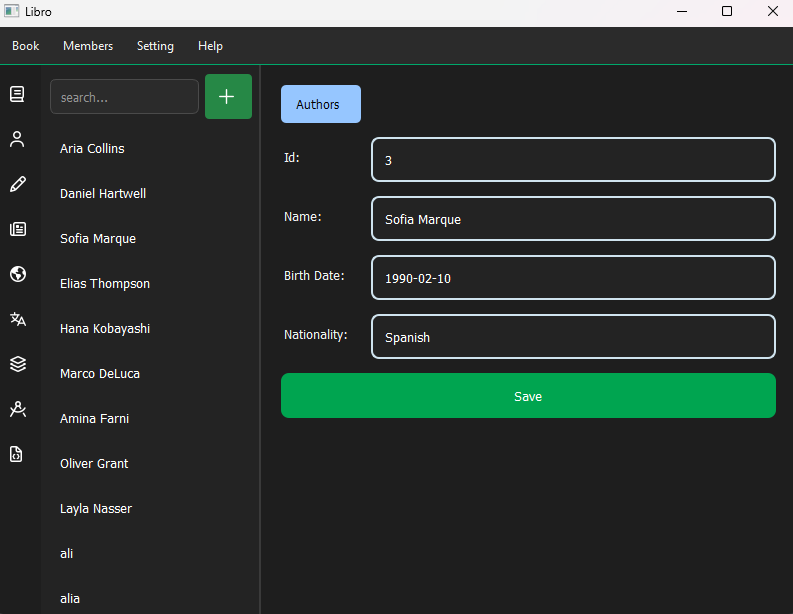
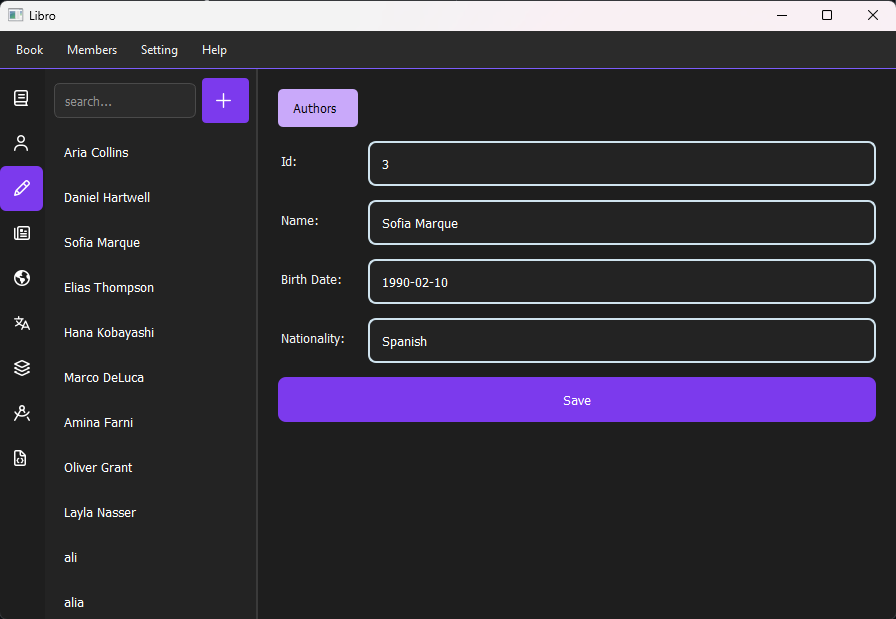
update readme

diff --git a/layout/main.py b/layout/main.py
@@ -63,7 +63,7 @@ class MainWindow(QMainWindow):
         exit_action.triggered.connect(self.close)
 
     def activate_side_button(self, active_button):
-
+        """پسزمینهی دکمهی کلیکشده رو بنفش میکنه و بقیه رو به حالت عادی برمیگردونه."""
         for btn in self.side_buttons:
             if btn is active_button:
                 btn.setStyleSheet("background-color: #7C3AED; border: none;")
@@ -121,7 +121,7 @@ class MainWindow(QMainWindow):
         button_resources.setIcon(QIcon("img/file-brackets-curly(W).svg"))
         button_resources.setObjectName("sideButton")
 
-
+        # لیست همهی دکمههای سمت چپ برای مدیریت حالت فعال/انتخابشده
         self.side_buttons = [
             button_book, button_user, button_author, button_publisher,
             button_trans, button_language, button_category,
@@ -143,7 +143,8 @@ class MainWindow(QMainWindow):
 
         left_panel = QWidget()
         left_panel.setObjectName("left_panel")
-        left_panel.setFixedWidth(220)
+        left_panel.setMinimumWidth(180)
+        left_panel.setSizePolicy(QSizePolicy.Preferred, QSizePolicy.Expanding)
         left_layout = QVBoxLayout(left_panel)
         left_layout.setContentsMargins(0, 0, 0, 0)
 
@@ -274,9 +275,9 @@ class MainWindow(QMainWindow):
 
         right_layout.addWidget(self.right_stack)
         main_layout.addWidget(left_panell)
-        main_layout.addWidget(left_panel)
+        main_layout.addWidget(left_panel, 1)
 
-        main_layout.addWidget(right_panel)
+        main_layout.addWidget(right_panel, 3)
 
 
 

diff --git a/component/author/Author_menu.py b/component/author/Author_menu.py
@@ -71,7 +71,7 @@ class AuthorWin(QWidget):
 
         scroll = QScrollArea()
         scroll.setWidgetResizable(True)
-        scroll.setFixedWidth(180)
+        scroll.setSizePolicy(QSizePolicy.Expanding, QSizePolicy.Expanding)
         scroll.setHorizontalScrollBarPolicy(Qt.ScrollBarAlwaysOff)
         scroll.setVerticalScrollBarPolicy(Qt.ScrollBarAlwaysOff)
         scroll.setContentsMargins(0, 0, 0, 0)

diff --git a/readme.md b/readme.md
@@ -64,7 +64,7 @@ The app is now installed and ready to use — no Python, no extra libraries, no 
 - Launch it from the **desktop shortcut** (if you created one), or
 - Open the **Start Menu** and search for **"Library Management System"**
 
-The app comes with a ready-to-use sample database, already filled with example books, authors, and publishers, so you can start browsing right away.
+
 
 ---
 
